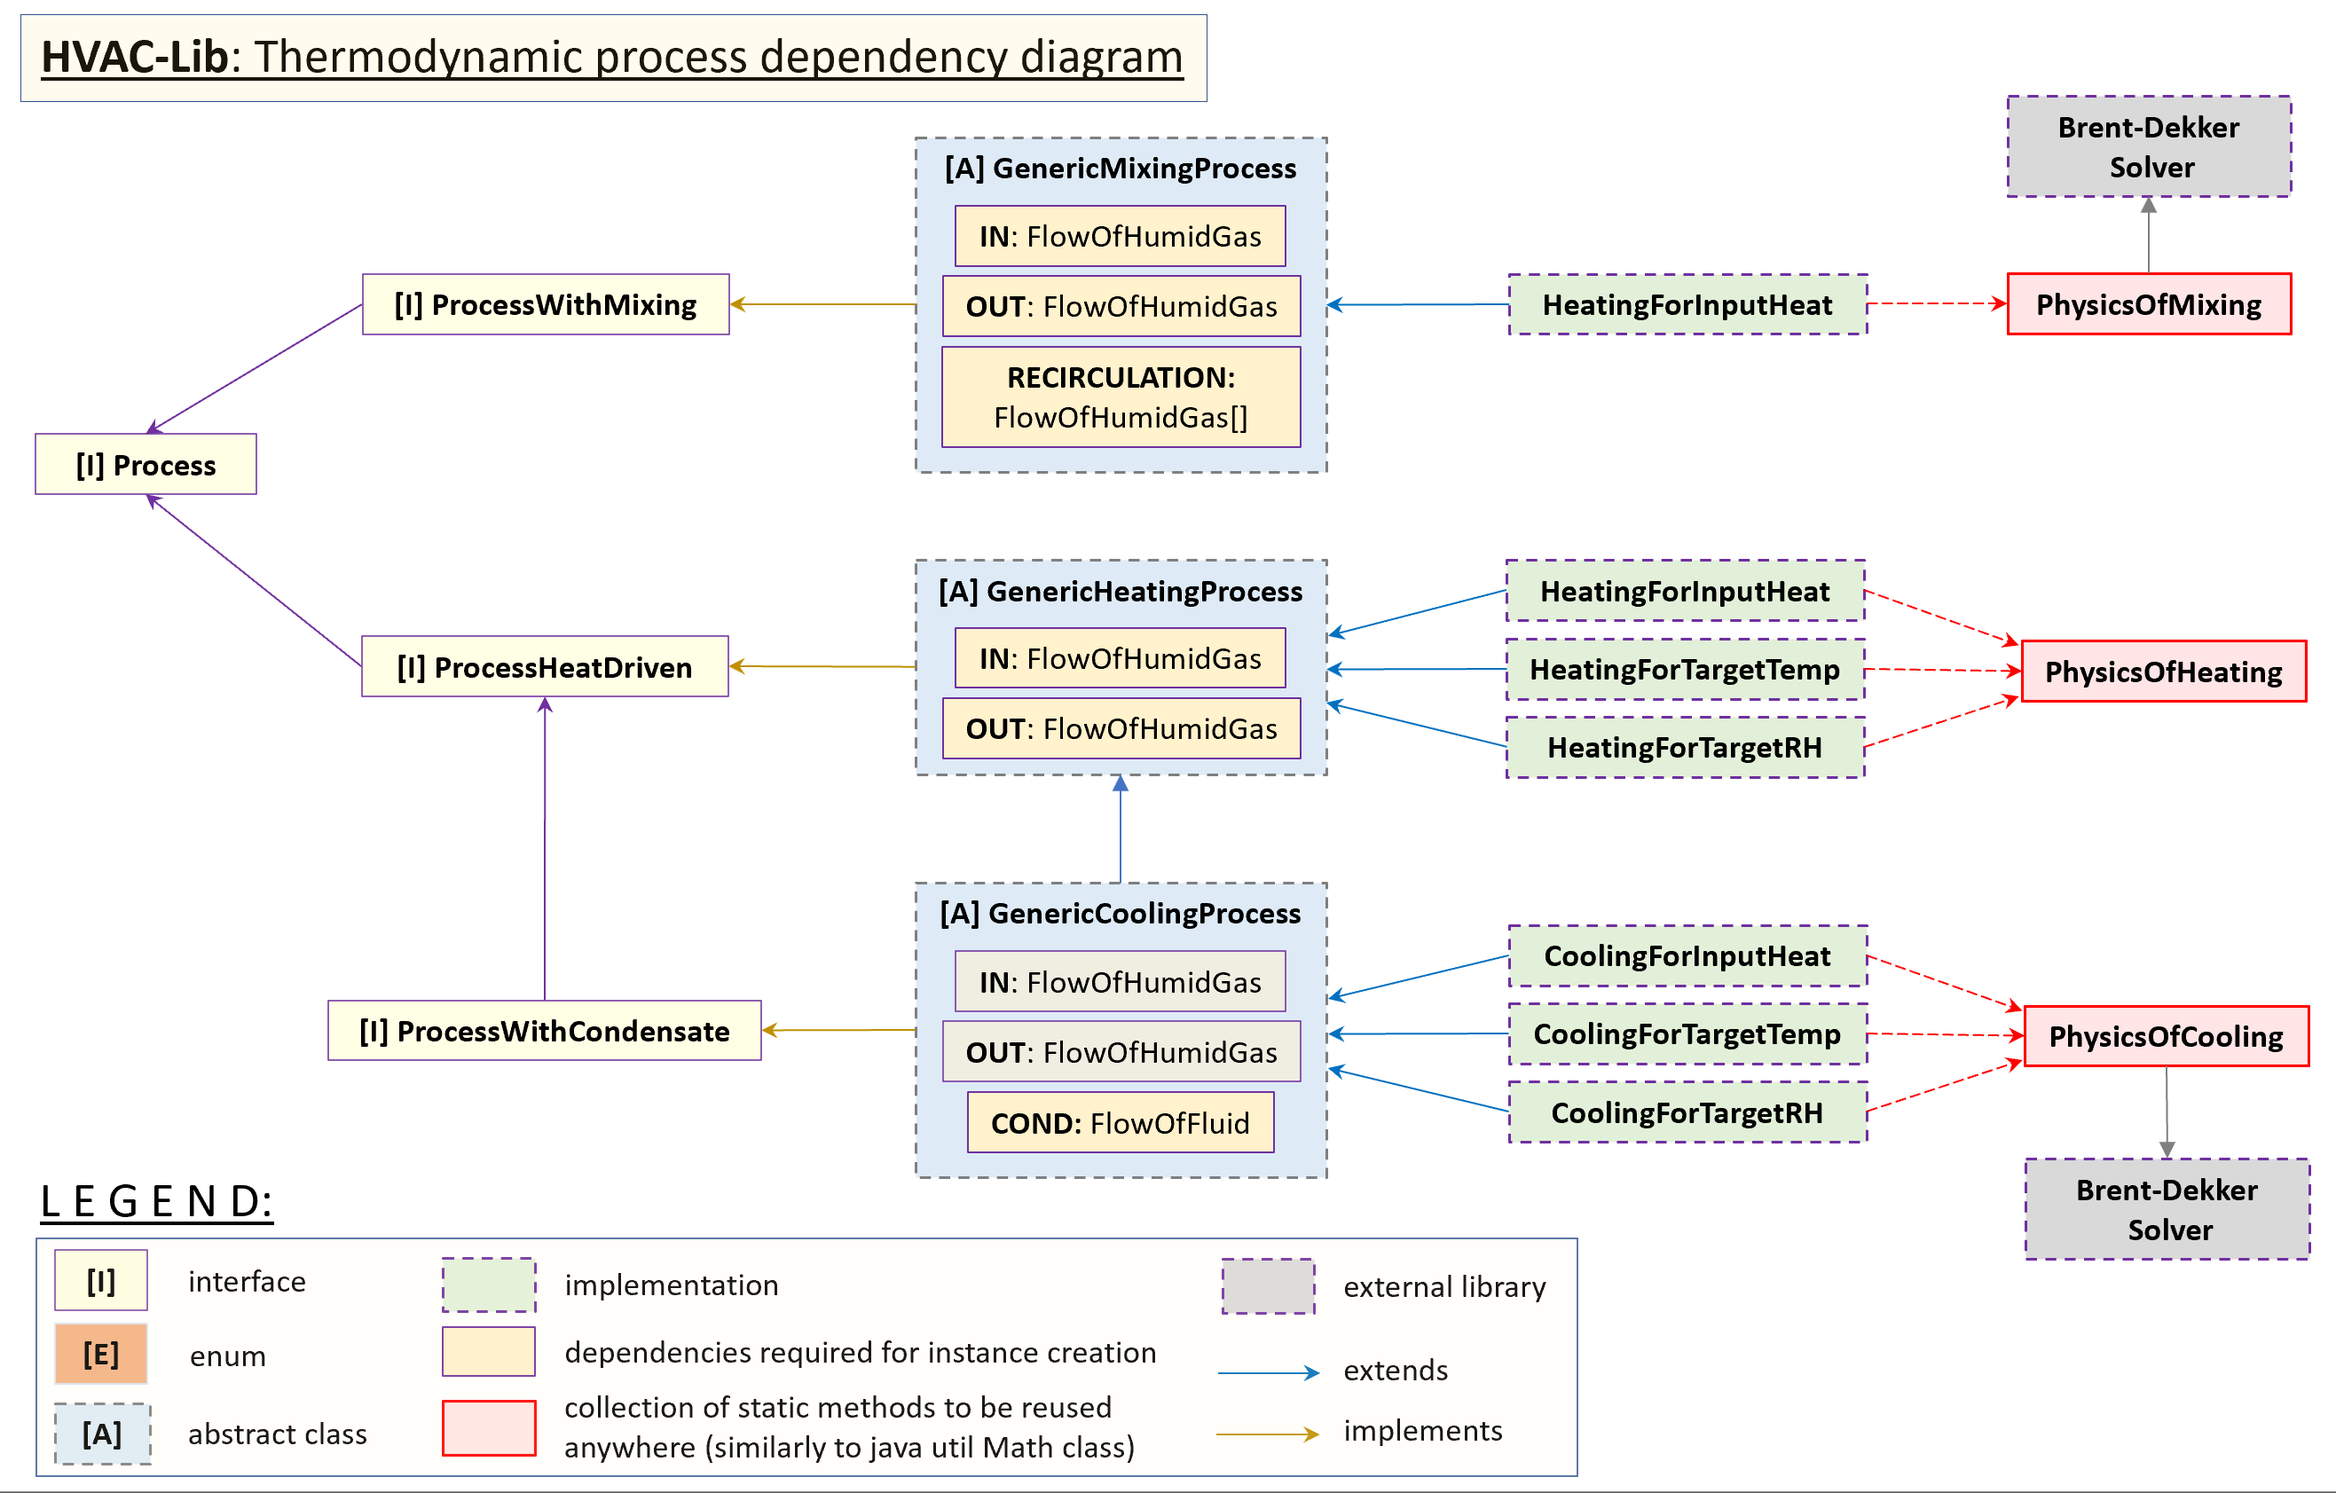
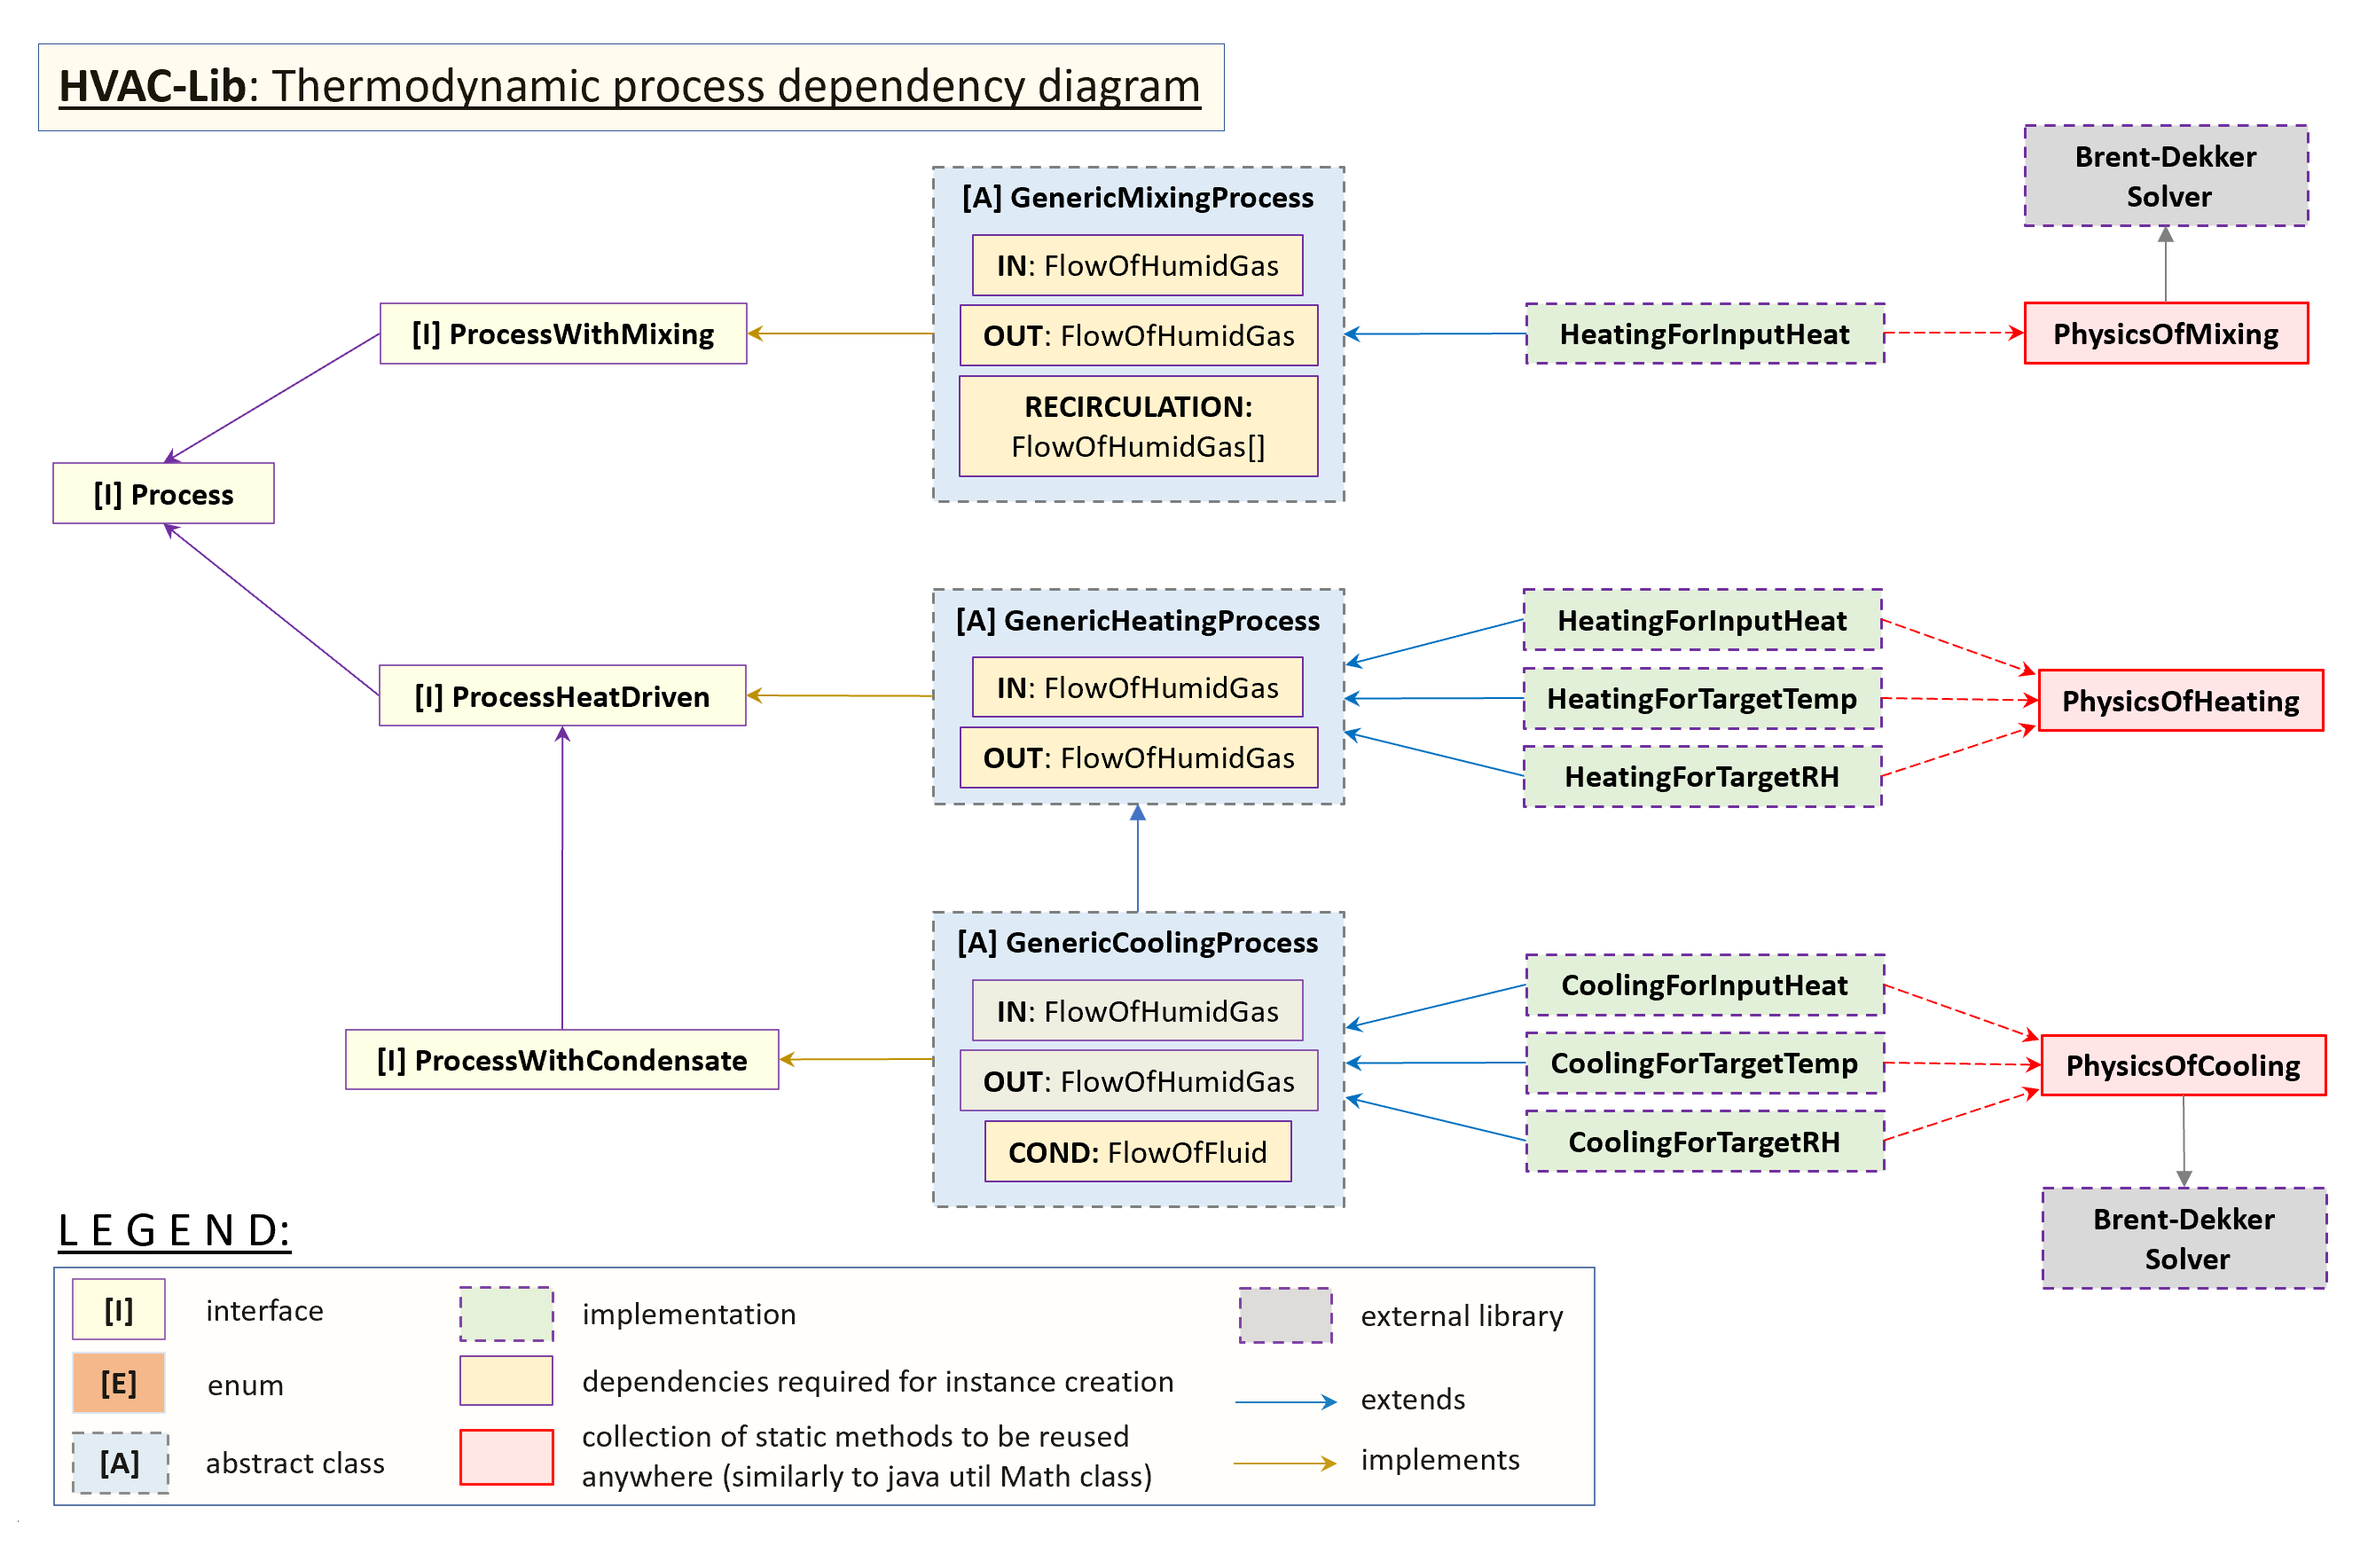
update README.MD, add diagram white-frame

diff --git a/README.MD b/README.MD
@@ -26,15 +26,13 @@ LAST CHANGES (2022.11.16):<br>
 
 The library is organized into following modules:
 * _fluids module_ - includes classes dedicated to fluid property representation and calculation
-* _flows module_ - includes classes representing fluid or humid gas flow handling
+* _flows module_ - includes classes representing fluid or humid gas flow handling<br>
 
-The diagram below presents Fluid and Flow modules structure:<br>
-<a href=""><img src="architecture/ARCH_1_FluidAndFlow.png" width="650"/><br></a>
+<a href="https://github.com/pjazdzyk/hvac-lib/blob/main/architecture/ARCH_1_FluidAndFlow.png"><img src="architecture/ARCH_1_FluidAndFlow.png" width="850"/><br></a>
 
-* _process module_ - includes classes representing each thermodynamic process implemented so far in the library
+* _process module_ - includes classes representing each thermodynamic process implemented so far in the library<br>
 
-The diagram below presents Fluid and Flow modules structure:<br>
-  <a href=""><img src="architecture/ARCH_2_Process.png" width="650"/><br></a>
+<a href="https://github.com/pjazdzyk/hvac-lib/blob/main/architecture/ARCH_2_Process.png"><img src="architecture/ARCH_2_Process.png" width="850"/><br></a>
 
 * _tests_ - includes all tests representing how to properly use each of library components
 
